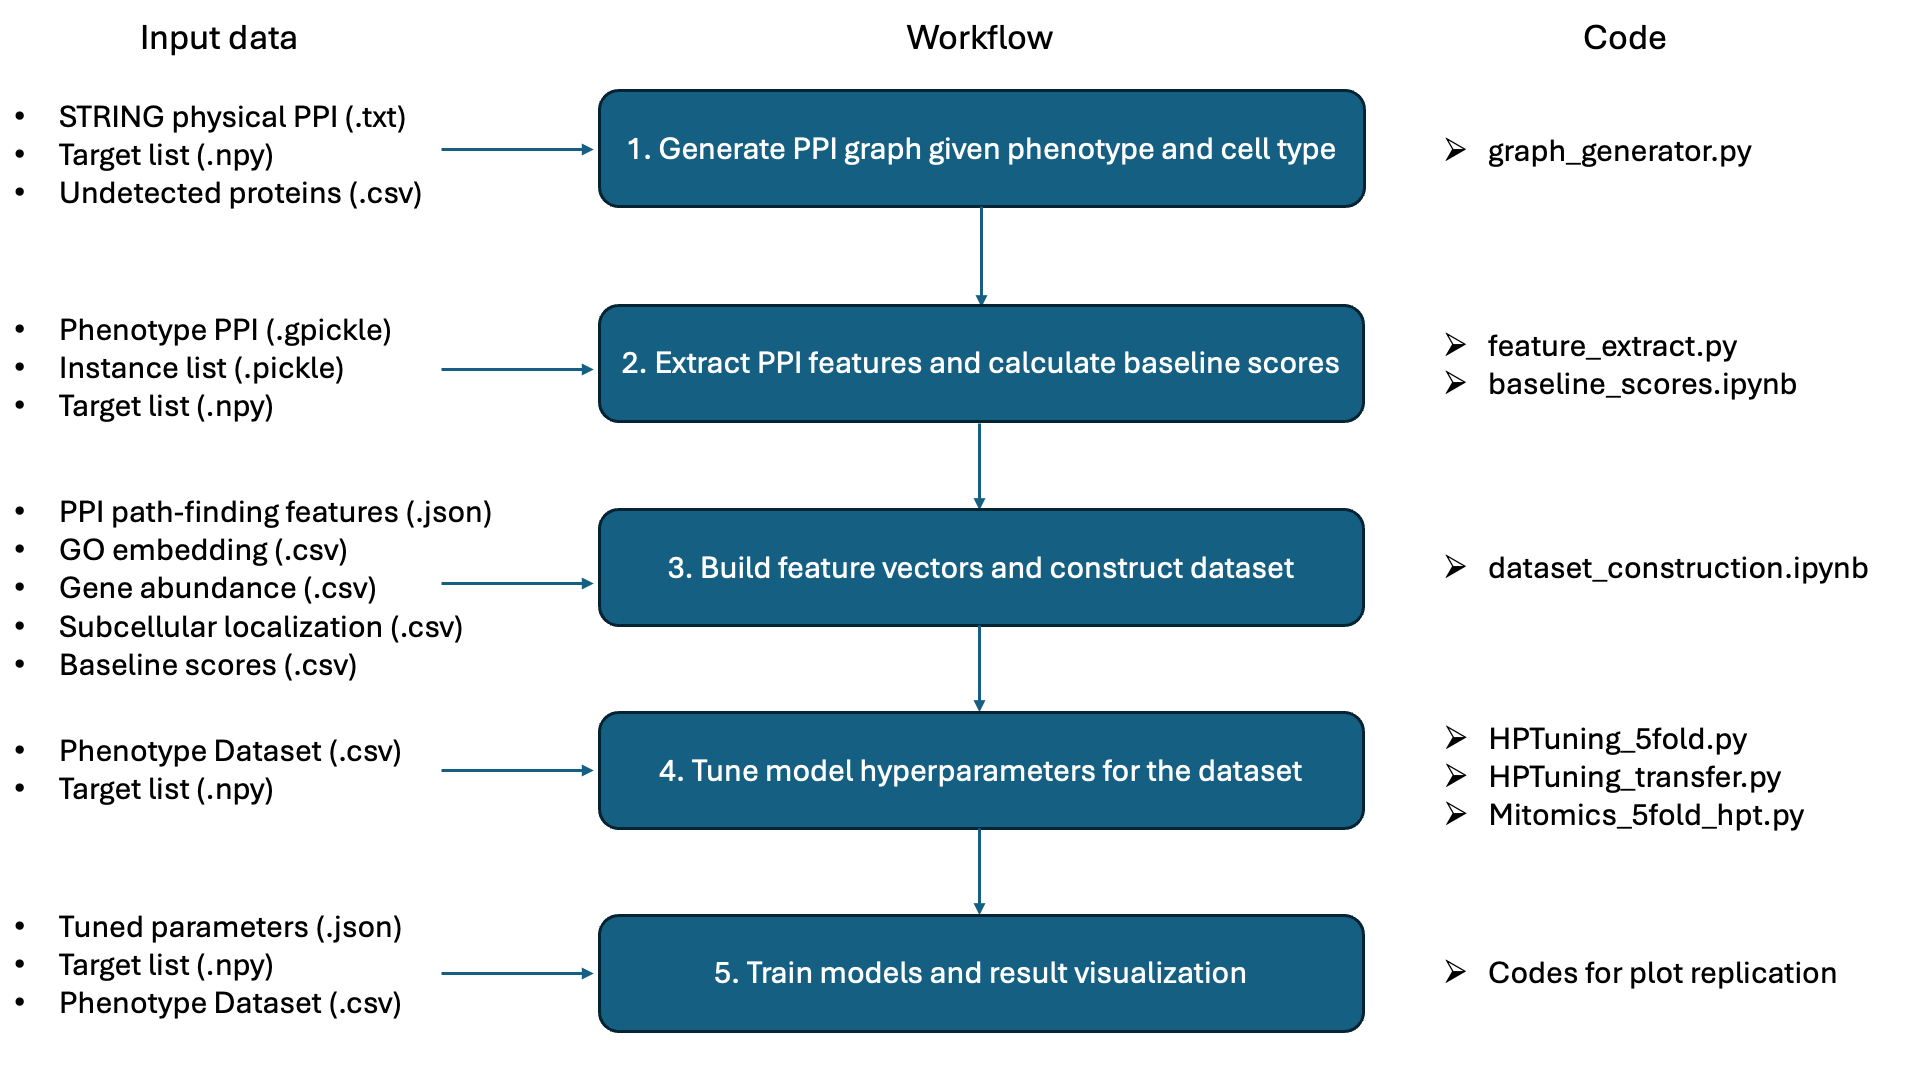
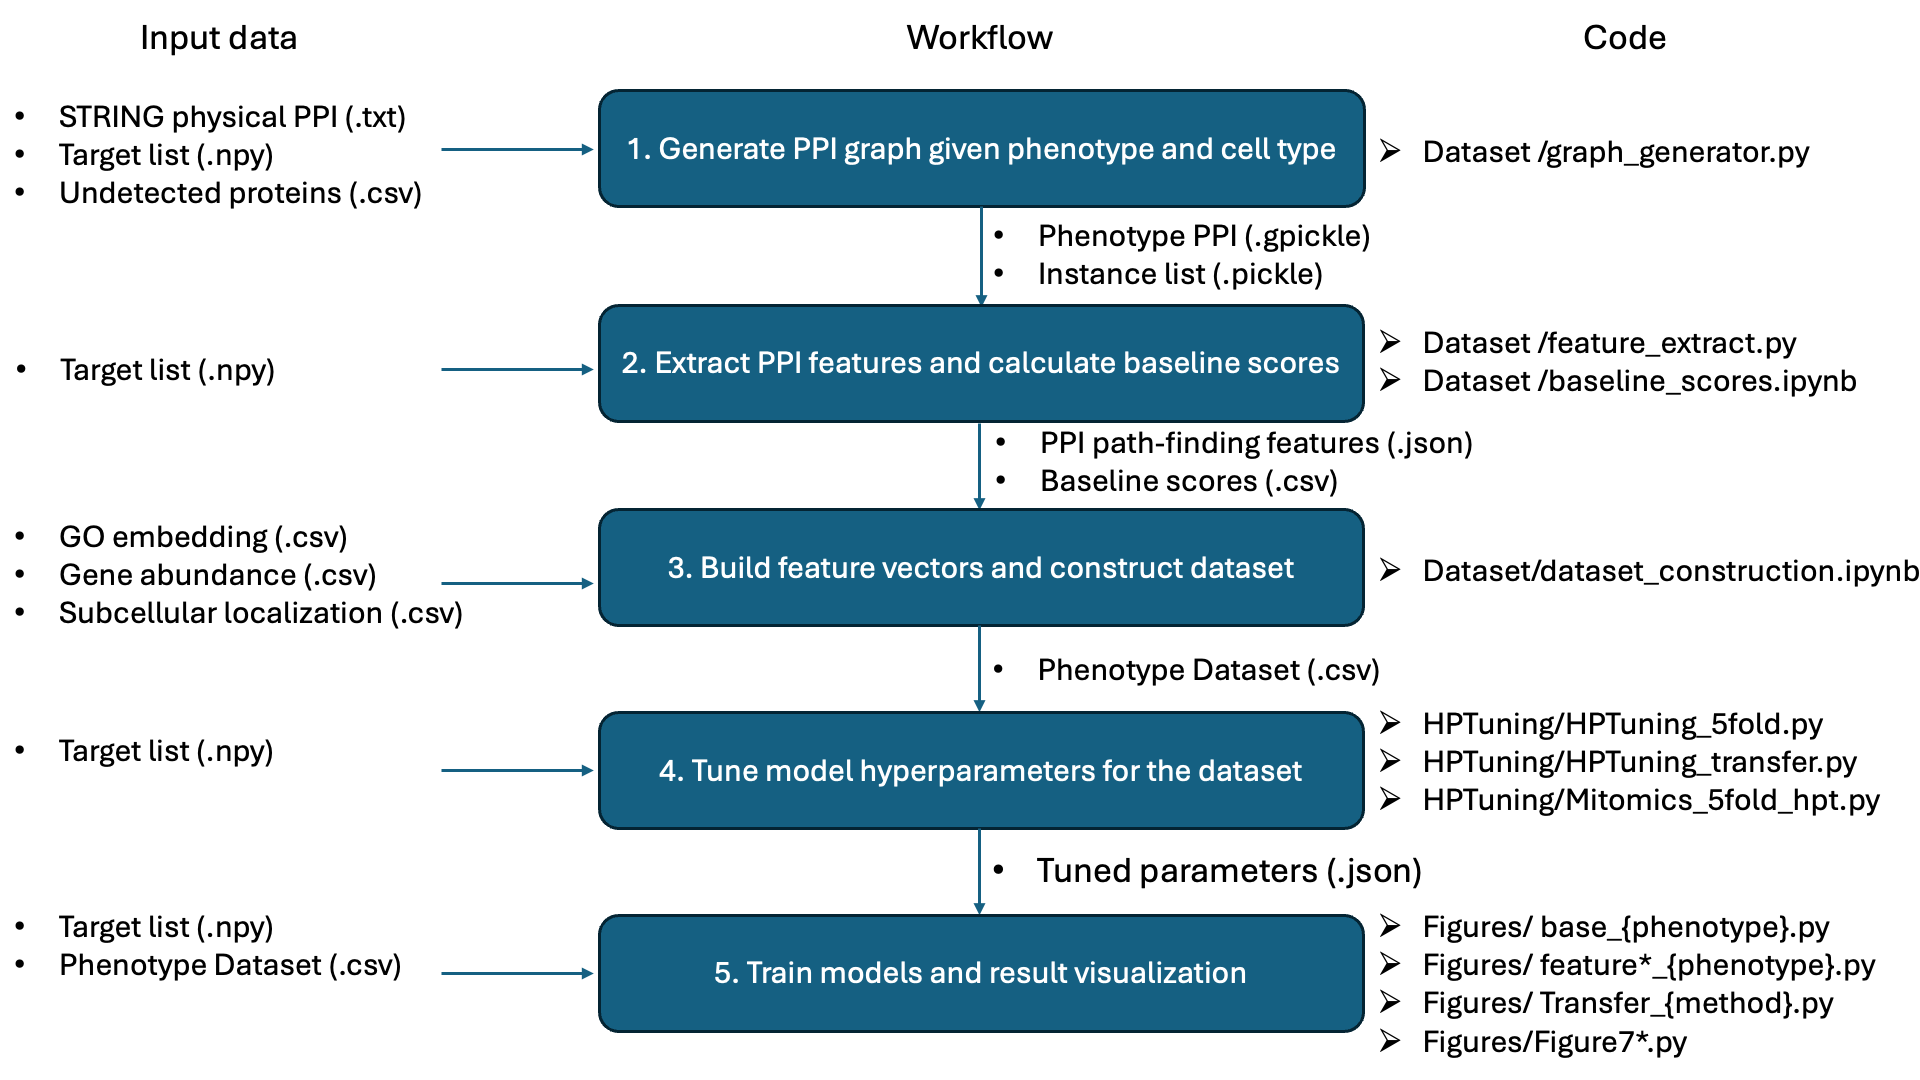
update readme

diff --git a/README.md b/README.md
@@ -32,6 +32,8 @@ Legend: `/` = directory, no suffix = file
         ├──uniprot_reactome_hpa_merged_stringid.csv (raw file for subcellular localization)
     ├──config/ (tuned hyperparameters for each model for each phenotype for each fold for each subset)
 ├──Code/
+    ├──Dataset/
+    ├──Figures/
 ├──Plot/
     ├──{phenotype}/ (Files necessary for feature importance replication)
     ├──Transfer_tuned/ (Files for transfer learning replication)
@@ -55,11 +57,11 @@ Random Forest ── RF
 XGBoost ── XGB  
 Neural Network ── NN  
 
-- To replicate Figure 2 and 3 for a phenotype, run base_{phenotype}. e.g. For phenotype cholesterol uptake, run [base_LDLR.py](./Code/base_LDLR.py)    
-- To replicate Figure 4, first run feature_subgraph_{phenotype}.py for each phenotype, then run [Feature_importance.ipynb](./Code/Feature_importance.ipynb).  
-- To replicate Figure 5, first run feature_feature_group_{phenotype}.py for each phenotype, then run [Feature_importance.ipynb](./Code/Feature_importance.ipynb).  
-- For phenotype Mitochondrial protein abundance, [feature_Mitomics.py](./Code/feature_Mitomics.py) would generate files for both Figure 4 and 5.  
-- To replicate Figure 6, first run Transfer_{ML-method}.py, then run [Transfer_learning.ipynb](./Code/Transfer_learning.ipynb).
+- To replicate Figure 2 and 3 for a phenotype, run base_{phenotype}. e.g. For phenotype cholesterol uptake, run [base_LDLR.py](./Code/Figures/base_LDLR.py)    
+- To replicate Figure 4, first run feature_subgraph_{phenotype}.py for each phenotype, then run [Feature_importance.ipynb](./Code/Figures/Feature_importance.ipynb).  
+- To replicate Figure 5, first run feature_feature_group_{phenotype}.py for each phenotype, then run [Feature_importance.ipynb](./Code/Figures/Feature_importance.ipynb).  
+- For phenotype Mitochondrial protein abundance, [feature_Mitomics.py](./Code/Figures/feature_Mitomics.py) would generate files for both Figure 4 and 5.  
+- To replicate Figure 6, first run Transfer_{ML-method}.py, then run [Transfer_learning.ipynb](./Code/Figures/Transfer_learning.ipynb).
 
 
 
